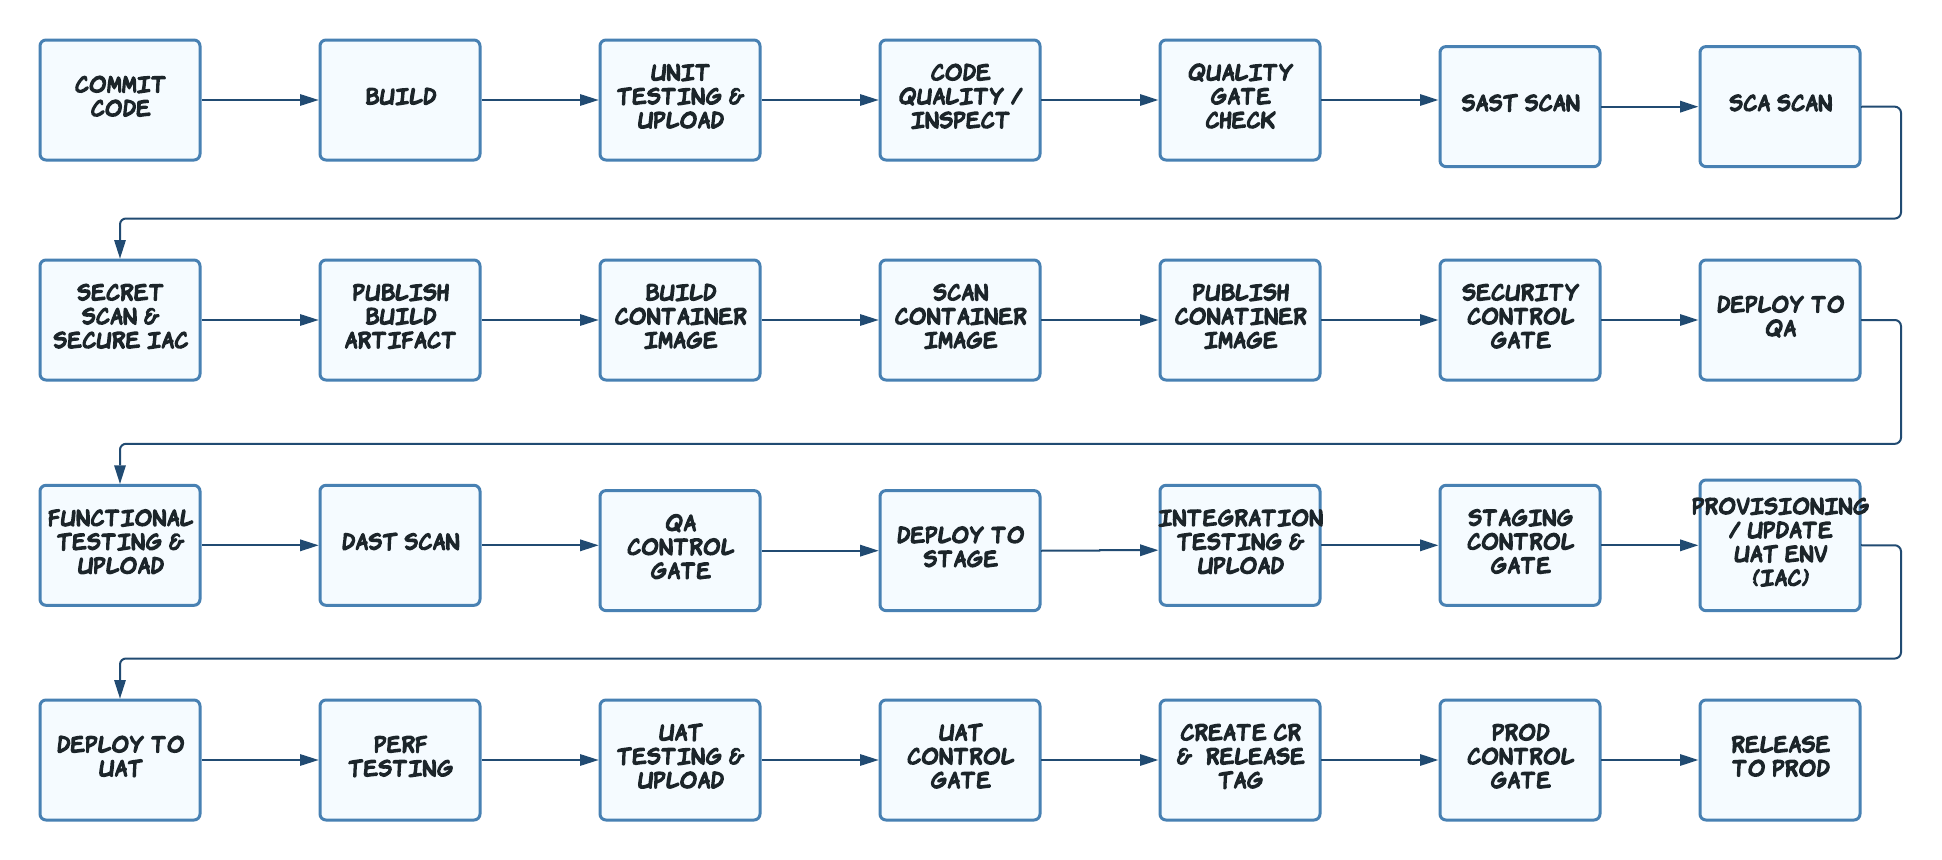
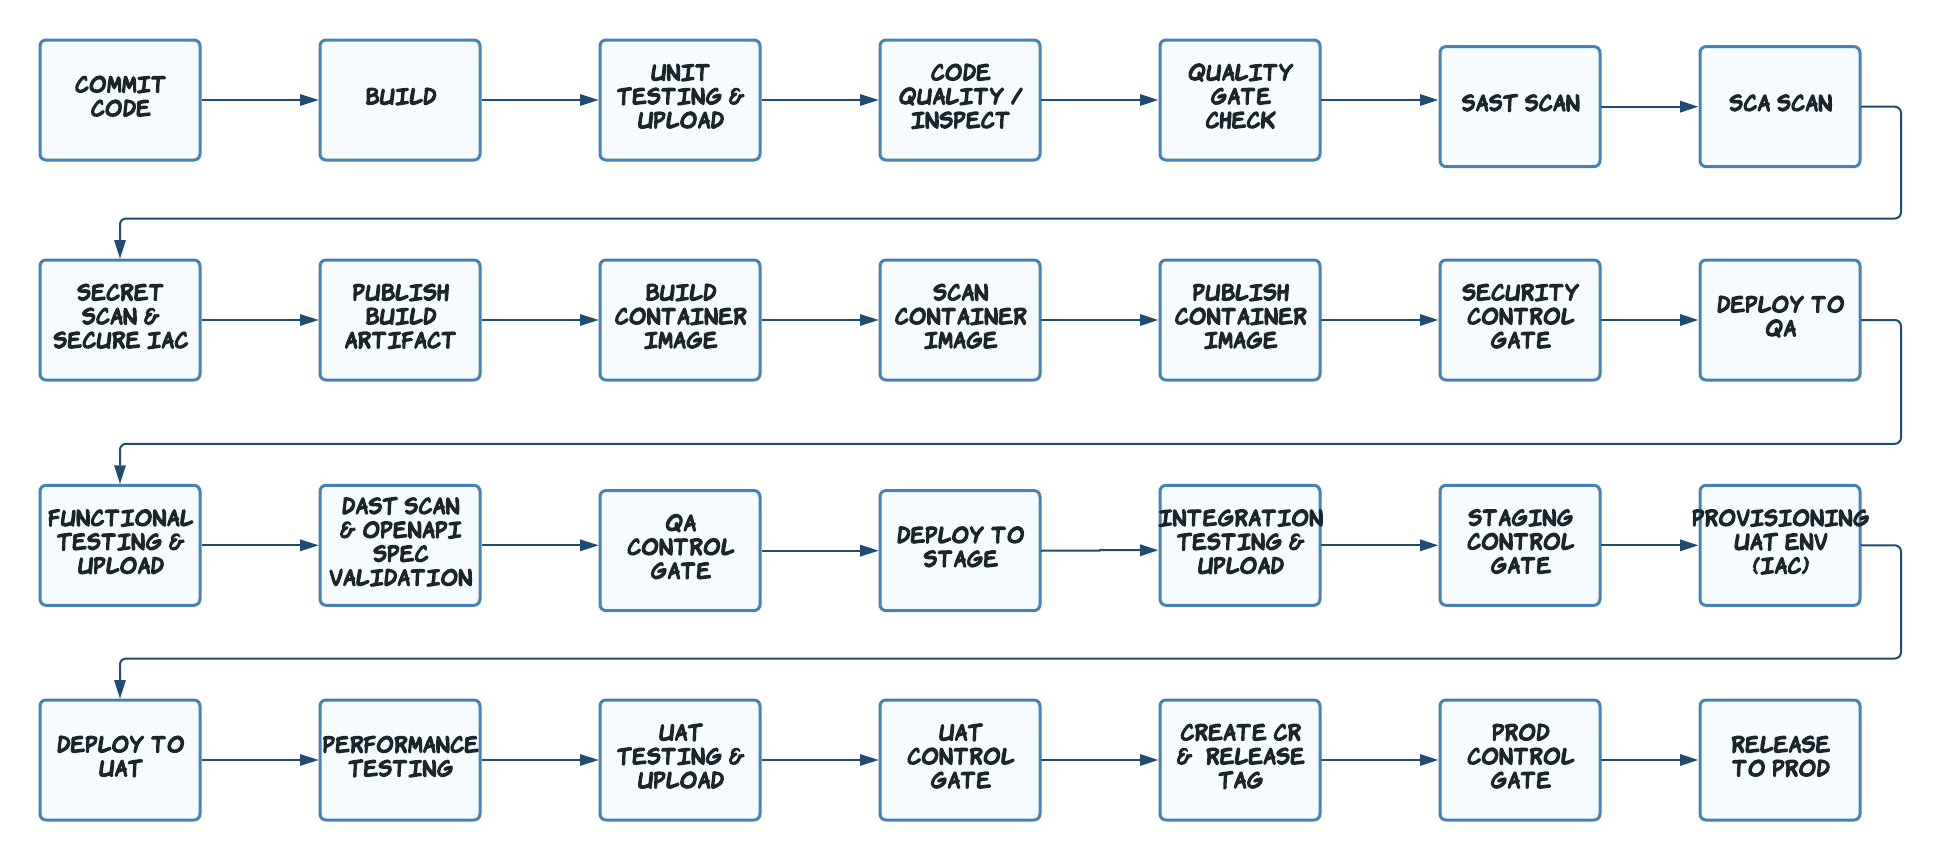
JUDE-52 updated pic

diff --git a/README.md b/README.md
@@ -94,7 +94,7 @@ This is a sample project to demonstrate the E2E Github Action release workflow w
 * Create Release Tag
 
 ## CI/CD E2E Release Workflow ##
-This Project implements the below CI/CD E2E release workflow integrated with CI, CD, Security Scans, and Test automation using Cloud SaaS tool sets.
+This Project implements the below CI/CD E2E release workflow integrated with CI, CD, Security Scans, IaC and Test automation using Cloud SaaS tool sets.
 
 ![releaseworkflow](./doc/releaseworkflow.png)	
 
